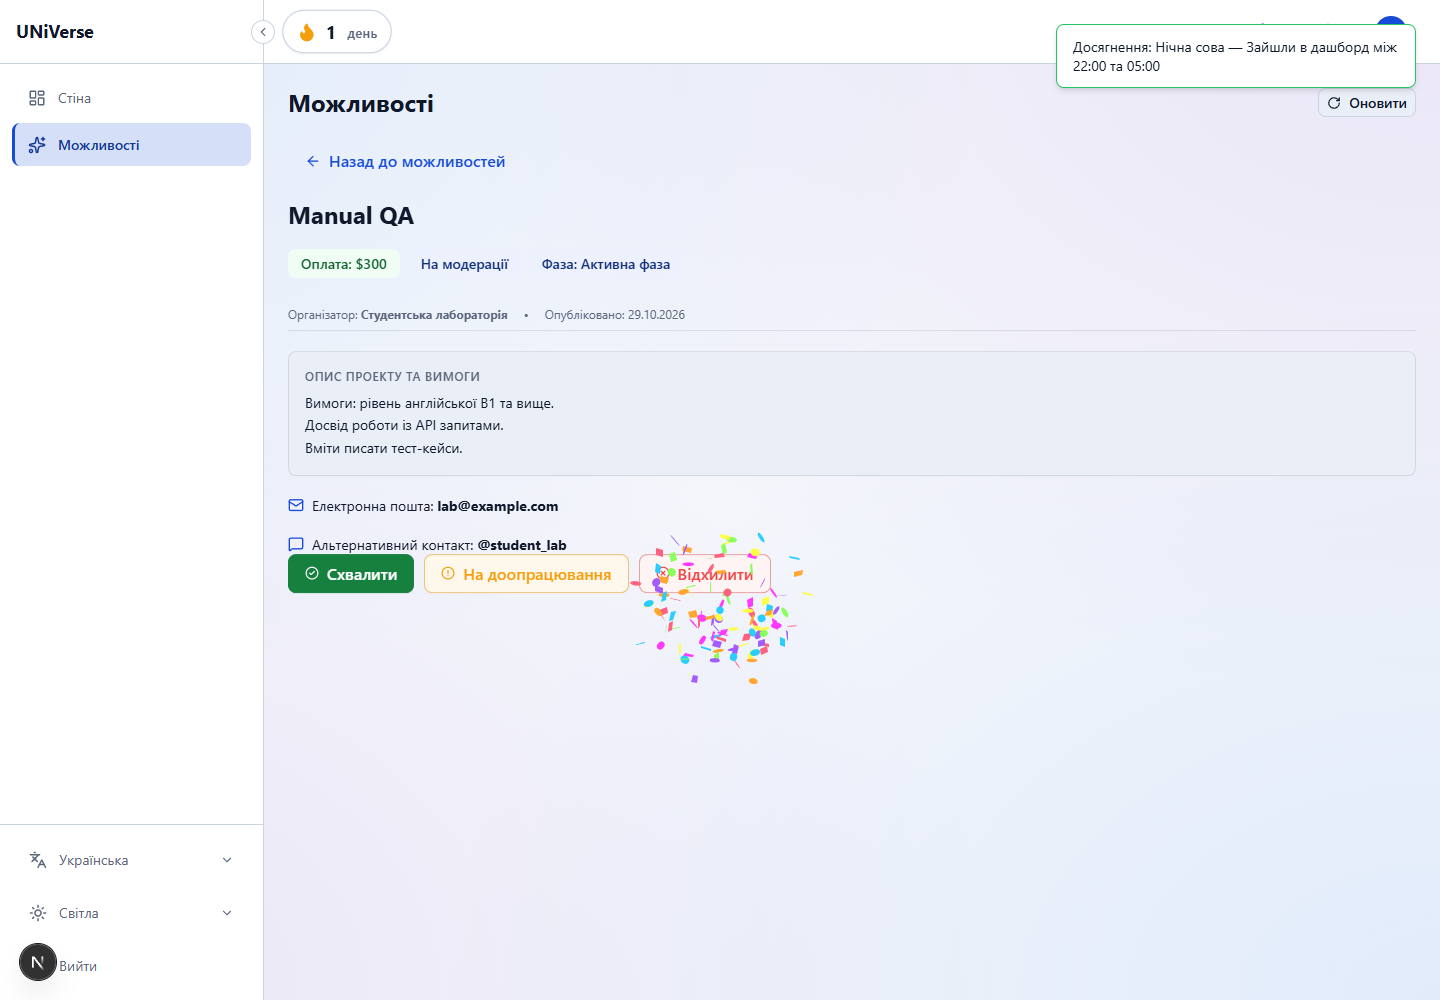
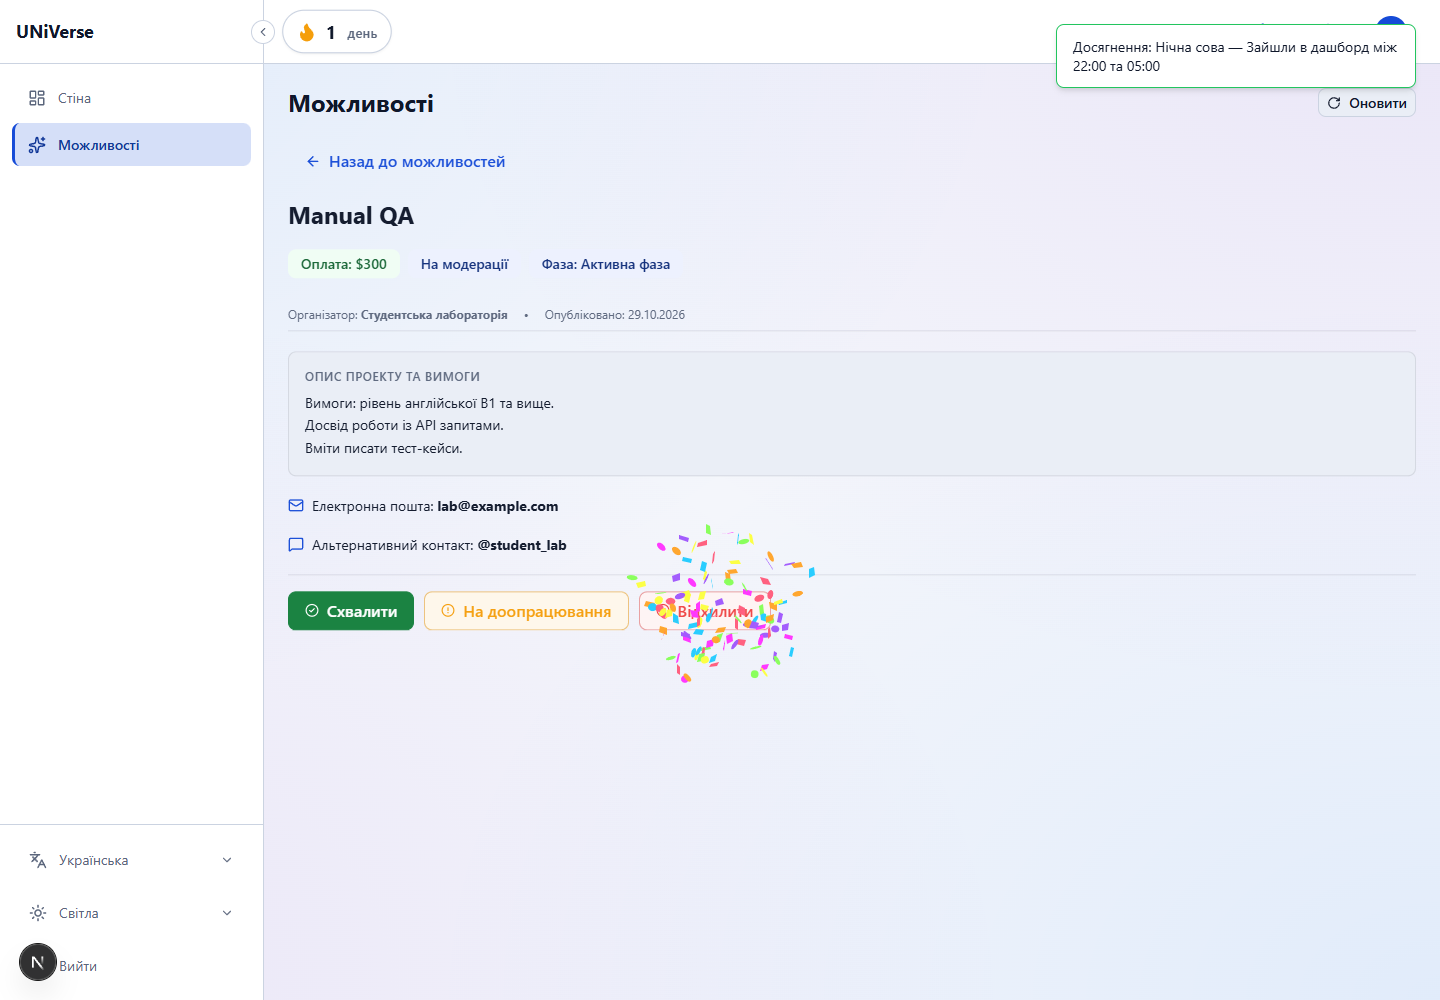
refactor: polish moderation actions accessibility and layout on detail view

Changed region(s): [[0.1875, 0.527, 0.5625, 0.682]]

diff --git a/packages/uni-hub/views/dashboard/tabs/opportunities/components/ModerationActions.tsx b/packages/uni-hub/views/dashboard/tabs/opportunities/components/ModerationActions.tsx
@@ -25,7 +25,7 @@ export const ModerationActions: React.FC<ModerationActionsProps> = ({
         disabled={disabled}
         onClick={onApprove}
       >
-        <CheckCircle2 size={14} className={styles.btnIcon} />
+        <CheckCircle2 size={14} aria-hidden="true" className={styles.btnIcon} />
         {formatMessage('opportunities.moderation.approve')}
       </Button>
       <Button
@@ -34,7 +34,7 @@ export const ModerationActions: React.FC<ModerationActionsProps> = ({
         disabled={disabled}
         onClick={onOpenRejectModal}
       >
-        <AlertCircle size={14} className={styles.btnIcon} />
+        <AlertCircle size={14} aria-hidden="true" className={styles.btnIcon} />
         {formatMessage('opportunities.moderation.revise')}
       </Button>
       <Button
@@ -43,7 +43,7 @@ export const ModerationActions: React.FC<ModerationActionsProps> = ({
         disabled={disabled}
         onClick={onOpenRejectModal}
       >
-        <XCircle size={14} className={styles.btnIcon} />
+        <XCircle size={14} aria-hidden="true" className={styles.btnIcon} />
         {formatMessage('opportunities.moderation.reject')}
       </Button>
     </div>

diff --git a/packages/uni-hub/views/dashboard/tabs/opportunities/components/OpportunityModerationPanel.tsx b/packages/uni-hub/views/dashboard/tabs/opportunities/components/OpportunityModerationPanel.tsx
@@ -3,6 +3,7 @@ import { OPPORTUNITY_MODERATE_ACTION } from '@core/constants/opportunities';
 import { useModeration } from '../hooks/useModeration';
 import { ModerationRejectModal } from '../modals/ModerationRejectModal';
 import { ModerationActions } from './ModerationActions';
+import styles from '../../OpportunitiesTab.module.scss';
 
 interface OpportunityModerationPanelProps {
   opportunityId: string;
@@ -14,7 +15,7 @@ export const OpportunityModerationPanel: React.FC<OpportunityModerationPanelProp
   const moderation = useModeration();
 
   return (
-    <>
+    <div className={styles.detailModerationPanel}>
       <ModerationActions
         onApprove={() =>
           void moderation.handleModerate(opportunityId, OPPORTUNITY_MODERATE_ACTION.APPROVE)
@@ -29,6 +30,6 @@ export const OpportunityModerationPanel: React.FC<OpportunityModerationPanelProp
         onConfirm={moderation.handleRejectConfirm}
         isSubmitting={moderation.submitting}
       />
-    </>
+    </div>
   );
 };

diff --git a/packages/uni-hub/views/dashboard/tabs/opportunities/OpportunityDetailContent.tsx b/packages/uni-hub/views/dashboard/tabs/opportunities/OpportunityDetailContent.tsx
@@ -35,6 +35,7 @@ export const OpportunityDetailContent: React.FC<OpportunityDetailContentProps> =
   const apply = useApplyToOpportunity({ currentUser, opportunity });
   const applicants = useApplicants();
   const canModerate =
+    Boolean(currentUser.userId) &&
     currentUser.roles.includes(ROLE.OPPORTUNITIES_MODERATOR) &&
     currentUser.userId !== opportunity.ownerId &&
     opportunity.status === OPPORTUNITY_STATUS.READY_FOR_REVIEW;

diff --git a/packages/uni-hub/views/dashboard/tabs/OpportunitiesTab.module.scss b/packages/uni-hub/views/dashboard/tabs/OpportunitiesTab.module.scss
@@ -553,6 +553,12 @@
   }
 }
 
+.detailModerationPanel {
+  margin-top: var(--space-20);
+  padding-top: var(--space-16);
+  border-top: 1px solid var(--card-border);
+}
+
 .idBadge {
   display: inline-flex;
   align-items: center;
